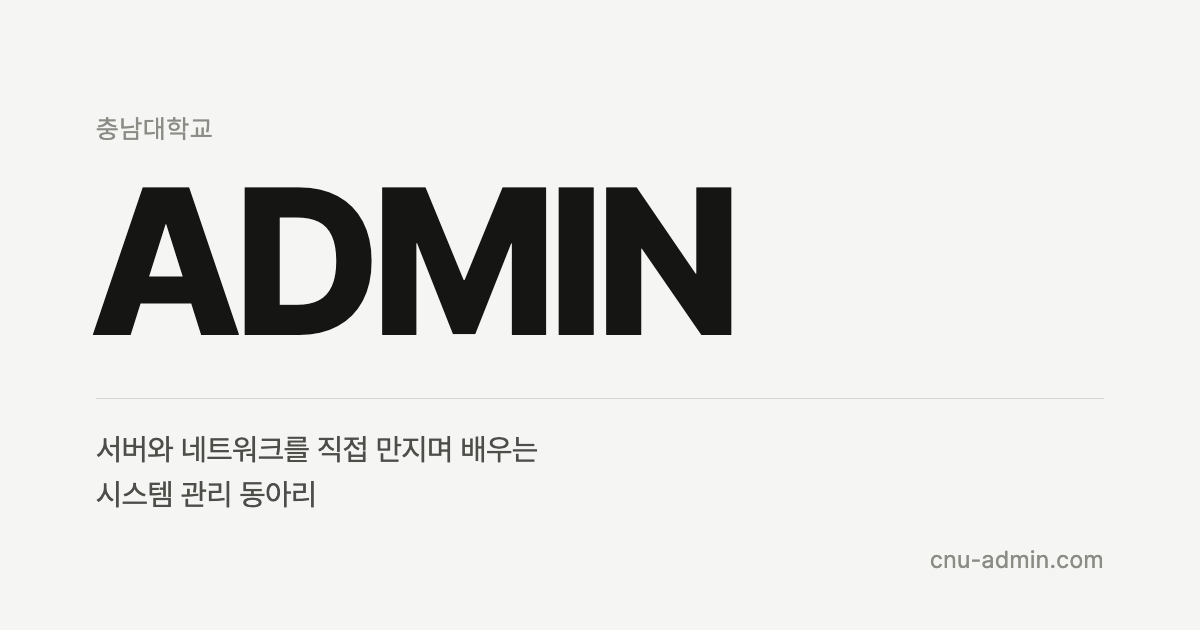
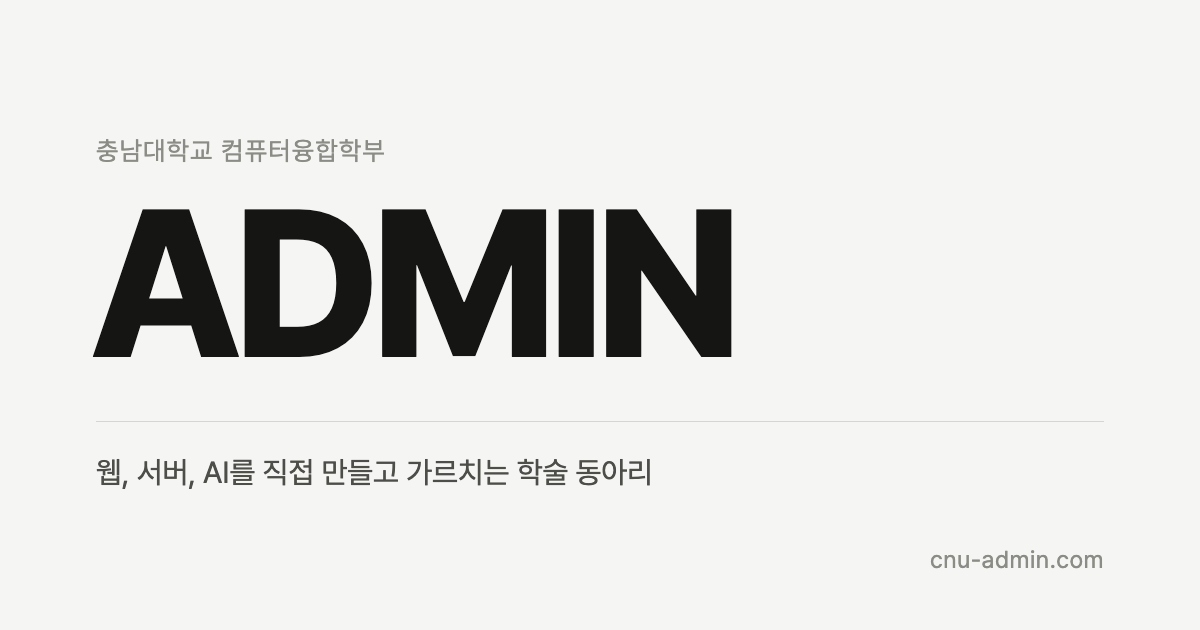
tagline에서 마케팅 문구를 덜어내고 메타 정보를 현재 내용에 맞춤
"함께 성장하는" 을 뺐다. 같은 문장이 들어가던 meta description,
og:title, og:description, 커버 이미지도 옛 더미 내용("시스템 관리
동아리")에 머물러 있어 함께 갱신했다.

Changed region(s): [[0.0617, 0.181, 0.6167, 0.573], [0.0617, 0.6937, 0.555, 0.8143]]

diff --git a/index.html b/index.html
@@ -3,19 +3,19 @@
 <head>
 <meta charset="UTF-8">
 <meta name="viewport" content="width=device-width, initial-scale=1">
-<title>ADMIN — 충남대학교</title>
-<meta name="description" content="충남대학교 시스템 관리 동아리 ADMIN. 서버와 네트워크를 직접 만지며 배웁니다.">
+<title>ADMIN — 충남대학교 컴퓨터융합학부</title>
+<meta name="description" content="웹, 서버, AI를 직접 만들고 가르치는 충남대학교 컴퓨터융합학부 학술 동아리입니다.">
 
 <!-- 카카오톡·메신저·SNS 링크 미리보기 -->
 <meta property="og:type" content="website">
 <meta property="og:site_name" content="ADMIN">
-<meta property="og:title" content="ADMIN — 충남대학교">
-<meta property="og:description" content="서버와 네트워크를 직접 만지며 배우는 충남대학교 시스템 관리 동아리입니다.">
+<meta property="og:title" content="ADMIN — 충남대학교 컴퓨터융합학부">
+<meta property="og:description" content="웹, 서버, AI를 직접 만들고 가르치는 충남대학교 컴퓨터융합학부 학술 동아리입니다.">
 <meta property="og:url" content="https://cnu-admin.com/">
 <meta property="og:image" content="https://cnu-admin.com/images/og-cover.png">
 <meta property="og:image:width" content="1200">
 <meta property="og:image:height" content="630">
-<meta property="og:image:alt" content="ADMIN — 충남대학교 시스템 관리 동아리">
+<meta property="og:image:alt" content="ADMIN — 충남대학교 컴퓨터융합학부 학술 동아리">
 <meta property="og:locale" content="ko_KR">
 <meta name="twitter:card" content="summary_large_image">
 <link rel="canonical" href="https://cnu-admin.com/">

diff --git a/data.js b/data.js
@@ -13,7 +13,7 @@ const DATA = {
     // 이름 옆 작은 글씨 (학교/소속)
     affiliation: "충남대학교 컴퓨터융합학부",
     // 한 줄 소개. 페이지 최상단 큰 문장.
-    tagline: "웹, 서버, AI를 직접 만들고 가르치며 함께 성장하는 충남대학교 컴퓨터융합학부 학술 동아리입니다.",
+    tagline: "웹, 서버, AI를 직접 만들고 가르치는 충남대학교 컴퓨터융합학부 학술 동아리입니다.",
     // 네비게이션. href는 각 섹션 id와 맞춰야 합니다.
     nav: [
       { label: "소개",   href: "#about" },
